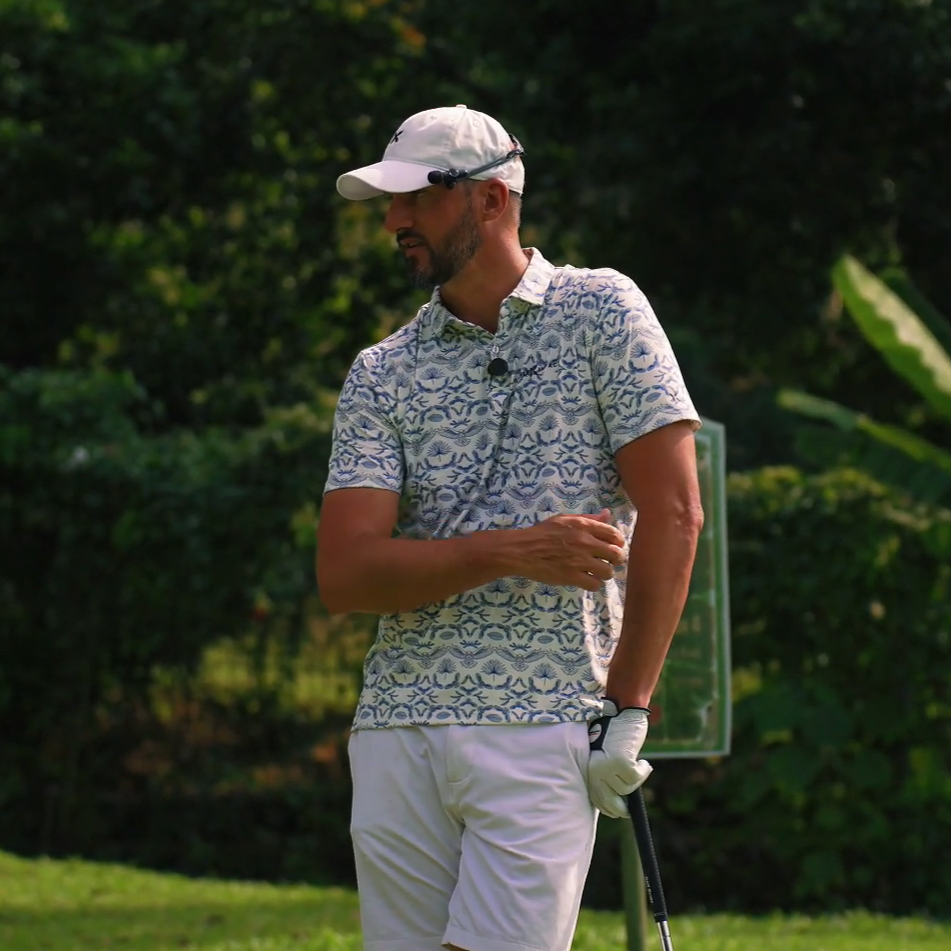
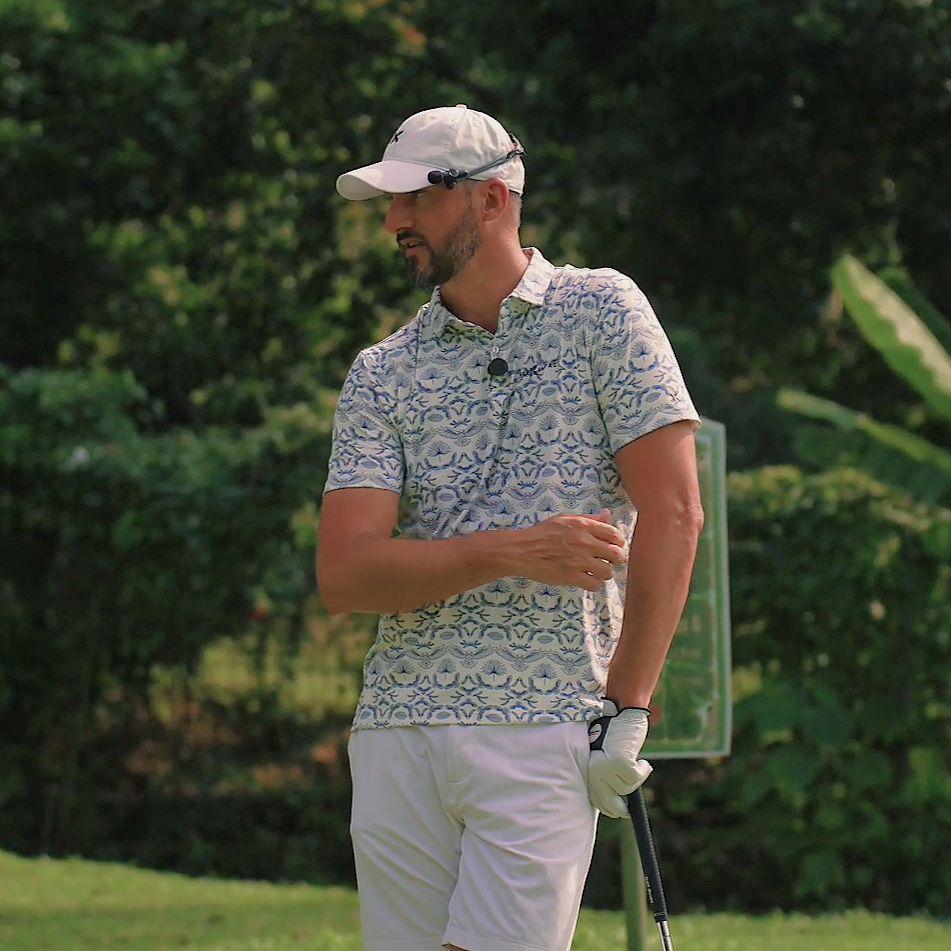
fvz 2

diff --git a/app/FrancoisVanZyl/FrancoisVanZylClient.tsx b/app/FrancoisVanZyl/FrancoisVanZylClient.tsx
@@ -1,6 +1,7 @@
 "use client"
 
 import Link from "next/link"
+import { Mail } from "lucide-react"
 
 export default function FrancoisVanZylClient() {
   const specialisations = [
@@ -39,17 +40,31 @@ export default function FrancoisVanZylClient() {
 
   return (
     <div className="min-h-screen bg-[#F4F1EA] text-[#2F5A43]">
-      {/* ================= DARK GREEN TEXT HEADER ================= */}
-      <section className="relative bg-[#1b2e23] border-b border-[#24392B] px-6 pt-28 pb-12 text-[#F2EEE8]">
-        <div className="mx-auto flex max-w-6xl flex-col items-start justify-end">
+      {/* ================= HERO HEADER WITH IMAGE & GRADIENT ================= */}
+      <section className="relative flex min-h-[220px] overflow-hidden border-b border-[#E2DDD3] px-6 pb-6 pt-20 text-[#F2EEE8] md:min-h-[340px] md:px-14 md:pb-12 md:pt-28">
+        <img
+          src="/OurCoaches/shortgame.jpg"
+          alt="Hero Background"
+          className="absolute inset-0 h-full w-full object-cover object-center"
+        />
+
+        <div
+          className="absolute inset-0 z-0"
+          style={{
+            background:
+              "linear-gradient(to right, rgba(18, 29, 22, 0.95) 0%, rgba(18, 29, 22, 0.8) 30%, rgba(18, 29, 22, 0.5) 60%, rgba(18, 29, 22, 0.2) 80%, transparent 100%)",
+          }}
+        />
+
+        <div className="relative z-10 mx-auto flex w-full max-w-6xl flex-col justify-end">
           <span className="text-xs font-light uppercase tracking-[0.25em] text-[#B89868]">
             Head Golf Coach
           </span>
-          <h1 className="mt-2 text-3xl font-light uppercase tracking-[0.18em] text-[#F2EEE8] md:text-4xl">
+          <h1 className="mt-1 text-2xl font-light uppercase tracking-[0.18em] text-[#F2EEE8] md:mt-2 md:text-4xl">
             Francois Van Zyl
           </h1>
-          <p className="mt-2 max-w-xl text-xs font-light tracking-[0.04em] text-[#E0D8CC] md:text-sm">
-            PGA Professional with 20+ years of teaching experience, swing technology, and custom golf development.
+          <p className="mt-1 max-w-xl text-xs font-light tracking-[0.04em] text-[#E0D8CC] md:mt-2 md:text-sm">
+            
           </p>
         </div>
       </section>
@@ -73,12 +88,12 @@ export default function FrancoisVanZylClient() {
             {/* Middle Content Column */}
             <div className="flex flex-col justify-between py-2 lg:col-span-4">
               <div>
-                <span className="text-xs font-light uppercase tracking-[0.2em] text-[#B89868]">
+                <span className="text-[14px] font-light uppercase tracking-[0.2em] text-[#B89868]">
                   Coaching Philosophy
                 </span>
                 
-                <p className="mt-3 text-xs font-light leading-relaxed tracking-[0.02em] text-[#2F5A43] md:text-sm">
-                  I believe coaching should be clear, simple and individual to each golfer. My approach is to find the root of the problem, simplify the fix, and give players the tools to improve.
+                <p className="mt-3 text-[13px]] font-light leading-relaxed tracking-[0.02em] text-[#2F5A43] md:text-sm">
+                  I believe coaching should be clear, simple and individual to each golfer. <br></br>My approach is to pinpoint the problem, simplify the solution, and give the player the confidence to own it.
                 </p>
 
                 <div className="mt-6">
@@ -89,7 +104,7 @@ export default function FrancoisVanZylClient() {
                     {specialisations.map((item) => (
                       <li
                         key={item}
-                        className="flex items-center gap-2 text-xs font-light tracking-[0.02em] text-[#2F5A43] md:text-sm"
+                        className="flex items-center gap-2 text-[13px] font-light tracking-[0.02em] text-[#2F5A43] md:text-sm"
                       >
                         <span className="text-[10px] text-[#B89868]">◆</span>
                         {item}
@@ -134,22 +149,27 @@ export default function FrancoisVanZylClient() {
         <section className="overflow-hidden rounded-3xl border border-[#E2DDD3] bg-[#FAF8F5] p-6 shadow-md md:p-8">
           <div className="grid grid-cols-1 items-center gap-8 lg:grid-cols-12">
             
-            <div className="space-y-4 lg:col-span-7">
+            <div className="space-y-3 lg:col-span-7">
               <span className="text-xs font-light uppercase tracking-[0.2em] text-[#B89868]">
                 Background & Approach
               </span>
-              <h2 className="text-xl font-light uppercase tracking-[0.14em] text-[#2F5A43] md:text-2xl">
-                Personal Coaching Story
+              <h2 className="text-[18px] font-light uppercase tracking-[0.14em] text-[#2F5A43] md:text-2xl">
+                My Coaching Story
               </h2>
-              <div className="space-y-3 text-xs font-light leading-relaxed tracking-[0.02em] text-[#2F5A43] md:text-sm">
+              <div className="space-y-3 text-[13px] font-light leading-relaxed tracking-[0.02em] text-[#2F5A43] md:text-sm">
                 <p>
-                  Golf has always been about more than just hitting a good shot for me. With over 20 years of teaching experience and a background in professional golf, I believe the best coaching starts with understanding the individual — how they move, how they learn, and what they are trying to achieve.
+                  "Pinpoint the problem, simplify the solution, and give the player the confidence to own it." 
+
                 </p>
                 <p>
-                  My approach is simple: understand the problem, simplify the solution, and give the player the confidence to own it. Technology such as TrackMan, HackMotion, Capto and video analysis helps me understand what is happening, but it is never the goal. The goal is to help each golfer understand their game and become a better player.
+                  Golf has always been about more than just hitting a good shot for me. After 20 years of coaching, I believe the best results start with understanding the individual - how they move, how they learn, and what they are trying to achieve.
                 </p>
                 <p>
-                  Today, I bring together my experience as a PGA professional, coach and club fitter to work with golfers of all levels — from players picking up a club for the first time to those looking to compete at their highest level.
+                  
+                  I utilize technology such as TrackMan, HackMotion, Capto and video analysis to make the learning process more visual. It helps my students see changes in their swing and shows a clearer path to what we are working towards.
+                </p>
+                <p>
+                  Today, I bring together my experience as a PGA professional, coach and club fitter to work with golfers of all levels - from players picking up a club for the first time to those looking to compete at their highest level.
                 </p>
               </div>
             </div>
@@ -203,10 +223,10 @@ export default function FrancoisVanZylClient() {
                   key={tech.name}
                   className="rounded-xl border border-[#E2DDD3]/60 bg-[#F4F1EA]/50 p-3"
                 >
-                  <h4 className="text-xs font-medium tracking-[0.05em] text-[#2F5A43]">
+                  <h4 className="text-[13px] font-medium tracking-[0.06em] text-[#2F5A43]">
                     {tech.name}
                   </h4>
-                  <p className="mt-1 text-[11px] font-light leading-relaxed text-[#2F5A43]/80">
+                  <p className="mt-1 text-[12px] font-light leading-relaxed text-[#2F5A43]/80">
                     {tech.desc}
                   </p>
                 </div>
@@ -217,8 +237,8 @@ export default function FrancoisVanZylClient() {
 
       </main>
 
-      {/* FOOTER CTA */}
-      <section className="relative overflow-hidden border-t border-[#E2DDD3] px-6 py-14 text-center text-[#F2EEE8]">
+      {/* FOOTER CONTACT */}
+      <section className="relative overflow-hidden border-t border-[#E2DDD3] px-6 pb-6 pt-14 text-center text-[#F2EEE8]">
         <img
           src="/OurCoaches/approach.jpg"
           alt="Footer Background"
@@ -233,7 +253,7 @@ export default function FrancoisVanZylClient() {
         />
 
         <div className="relative z-10 mx-auto max-w-xl">
-          <div className="mb-4 flex items-center justify-center gap-3">
+          <div className="mb-6 flex items-center justify-center gap-3">
             <div className="h-[1px] w-16 bg-[#B89868]/60" />
             <img
               src="/images/logo-warm.png"
@@ -243,20 +263,40 @@ export default function FrancoisVanZylClient() {
             <div className="h-[1px] w-16 bg-[#B89868]/60" />
           </div>
 
-          <h2 className="text-lg font-light uppercase tracking-[0.18em]">
-            Ready To Elevate Your Game?
-          </h2>
-          <p className="mt-2 text-xs font-light text-[#E0D8CC]">
-            Book a private one-on-one session with Head Coach Francois Van Zyl.
-          </p>
+          <div className="flex flex-col items-center justify-center gap-4 text-xs font-light tracking-[0.14em] uppercase text-[#E0D8CC] sm:flex-row sm:gap-8">
+            
+            <div className="flex items-center gap-2.5 transition hover:text-[#F2EEE8]">
+              <svg 
+                className="h-3.5 w-3.5 shrink-0 text-[#B89868]" 
+                viewBox="0 0 24 24" 
+                fill="none" 
+                stroke="currentColor" 
+                strokeWidth="1.75" 
+                strokeLinecap="round" 
+                strokeLinejoin="round"
+              >
+                <rect width="20" height="20" x="2" y="2" rx="5" ry="5" />
+                <path d="M16 11.37A4 4 0 1 1 12.63 8 4 4 0 0 1 16 11.37z" />
+                <line x1="17.5" x2="17.51" y1="6.5" y2="6.5" />
+              </svg>
+              <a
+                href="https://www.instagram.com/FVZgolf"
+                target="_blank"
+                rel="noopener noreferrer"
+              >
+                @FVZgolf
+              </a>
+            </div>
+            <div className="flex items-center gap-2.5 transition hover:text-[#F2EEE8]">
+              <Mail className="h-3.5 w-3.5 shrink-0 text-[#B89868]" />
+              <a href="mailto:francois@geminigolfacademy.com">
+                francois@geminigolfacademy.com
+              </a>
+            </div>
+          </div>
 
-          <div className="mt-6">
-            <Link
-              href="/CoachAvailability?coach=Francois"
-              className="inline-block border border-[#B89868] bg-[#121D16]/60 px-6 py-2.5 text-xs font-light uppercase tracking-[0.18em] text-[#F2EEE8] backdrop-blur-sm transition hover:bg-[#B89868] hover:text-[#121D16]"
-            >
-              Check Availability
-            </Link>
+          <div className="mt-8 border-t border-[#D8CCB7]/20 pt-4 text-[11px] font-light text-[#E0D8CC]/60">
+            © {new Date().getFullYear()} Gemini Golf Academy Sdn Bhd. All rights reserved.
           </div>
         </div>
       </section>

diff --git a/app/MeetOurCoaches/MeetOurCoachesClient.tsx b/app/MeetOurCoaches/MeetOurCoachesClient.tsx
@@ -22,14 +22,14 @@ const coachesData: Coach[] = [
     name: "Francois Van Zyl",
     role: "HEAD COACH",
     philosophy:
-      "I believe coaching should be clear, simple and individual to each golfer. \nMy approach is to find the root of the problem, simplify the fix, and give players the tools to improve.",
+      "I believe coaching should be clear, simple and individual to each golfer. \nMy approach is to pinpoint the problem, simplify the solution, and give the player the confidence to own it.",
     specialisations: [
       "Swing Mechanics & Technique",
       "Golf Technology & Swing Analysis",
       "Course-Management & Strategy",
       "Putting & Short Game",
     ],
-    photoUrl: "/OurCoaches/Francois_Action.png",
+    photoUrl: "/FVZ/F_2.png",
     imagePosition: "object-[center_25%]",
     mobileImagePosition: "object-top",
     mobileImageHeight: "h-80",
@@ -40,7 +40,7 @@ const coachesData: Coach[] = [
     name: "Siti Shaari",
     role: "PERFORMANCE COACH",
     philosophy:
-      "I believe golf is about more than just the swing.\nMy focus is on helping students develop their game while builing confidence on the course.",
+      "I believe golf is about more than just the swing.\nMy focus is on helping students develop their swing and mental game so they achieve their goals whilst remembering to enjoy the process.",
     specialisations: [
       "Swing Fundamentals & Technique",
       "Course Management & Smart Playing",
